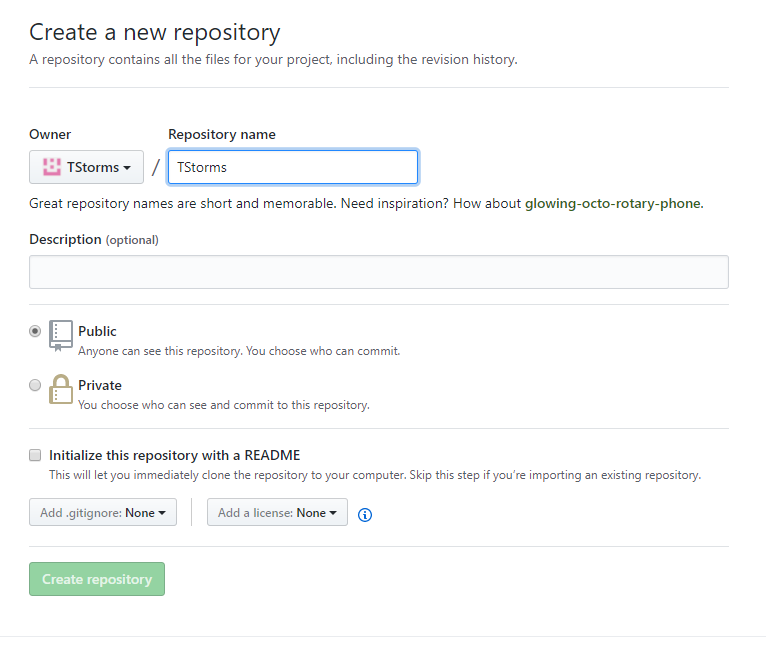
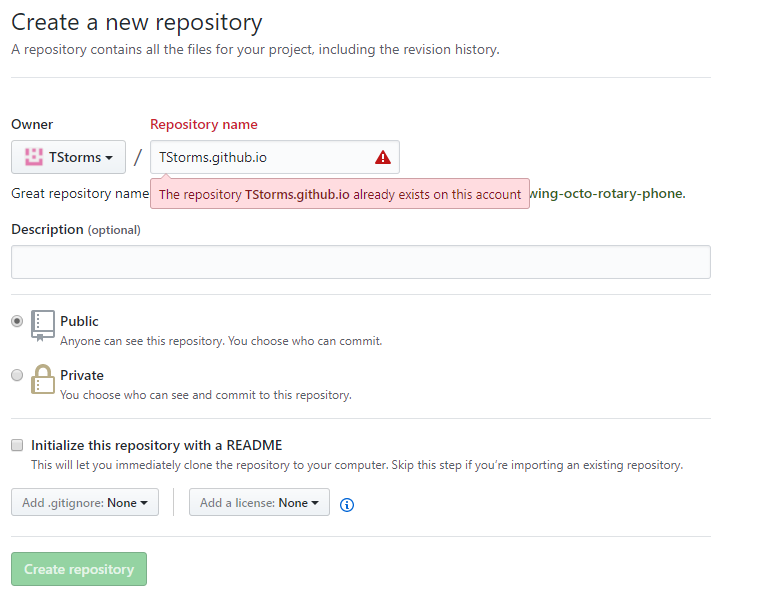
Site updated: 2017-08-03 19:05:22

diff --git a/2017/08/03/教你快速搭建专属于你的博客（三）配置Github-pages/index.html b/2017/08/03/教你快速搭建专属于你的博客（三）配置Github-pages/index.html
@@ -480,7 +480,7 @@
 <h2 id="160-160-github申请完新建一个仓库"><a href="#160-160-github申请完新建一个仓库" class="headerlink" title="&#160; &#160;github申请完新建一个仓库"></a>&#160; &#160;github申请完新建一个仓库</h2><div align="center"><br><br><img src="/images/github-1.png" alt="Alt text"><br><br></div>
 
 <blockquote>
-<p>申请的仓库名字需要和账号名称一样</p>
+<p>申请的仓库名字：账号名称+.github.io</p>
 </blockquote>
 <div align="center"><br><br><img src="/images/github-2.png" alt="Alt text"><br><br></div>
 
@@ -497,7 +497,10 @@ timezone: Asia/Shanghai  //上海标准时间
   type: git
   repository:https://github.com/TStorms/TStorms.github.io.git    //仓库地址
   branch: master
-</code></pre><h4 id="160-160-在这个文件夹底下，shift-右键打开cmd窗口（windows-powerShell也行）输入"><a href="#160-160-在这个文件夹底下，shift-右键打开cmd窗口（windows-powerShell也行）输入" class="headerlink" title="&#160; &#160;在这个文件夹底下，shift+右键打开cmd窗口（windows powerShell也行）输入"></a>&#160; &#160;在这个文件夹底下，shift+右键打开cmd窗口（windows powerShell也行）输入</h4><pre><code>hexo generate  //生成静态文件：简写hexo g
+  #### &amp;#160; &amp;#160;在这个文件夹底下，shift+右键打开cmd窗口（windows powerShell也行）输入
+</code></pre><h4 id="160-160-在这个文件夹底下，shift-右键打开cmd窗口（windows-powerShell也行）输入"><a href="#160-160-在这个文件夹底下，shift-右键打开cmd窗口（windows-powerShell也行）输入" class="headerlink" title="&#160; &#160;在这个文件夹底下，shift+右键打开cmd窗口（windows powerShell也行）输入"></a>&#160; &#160;在这个文件夹底下，shift+右键打开cmd窗口（windows powerShell也行）输入</h4><pre><code>npm install hexo-deployer-git --save
+
+hexo generate  //生成静态文件：简写hexo g
 
 hexo deploy  //上传到仓库：简写hexo d
 </code></pre><h4 id="160-160-正常的话，等几分钟，在浏览器输入http-TStorms-github-io-自己的仓库，要懂得变化-哼哼-就能访问到了，结束了"><a href="#160-160-正常的话，等几分钟，在浏览器输入http-TStorms-github-io-自己的仓库，要懂得变化-哼哼-就能访问到了，结束了" class="headerlink" title="&#160; &#160;正常的话，等几分钟，在浏览器输入http://TStorms.github.io(自己的仓库，要懂得变化~哼哼~) 就能访问到了，结束了~"></a>&#160; &#160;正常的话，等几分钟，在浏览器输入<a href="http://TStorms.github.io(自己的仓库，要懂得变化~哼哼~" target="_blank" rel="external">http://TStorms.github.io(自己的仓库，要懂得变化~哼哼~</a>) 就能访问到了，结束了~</h4>
